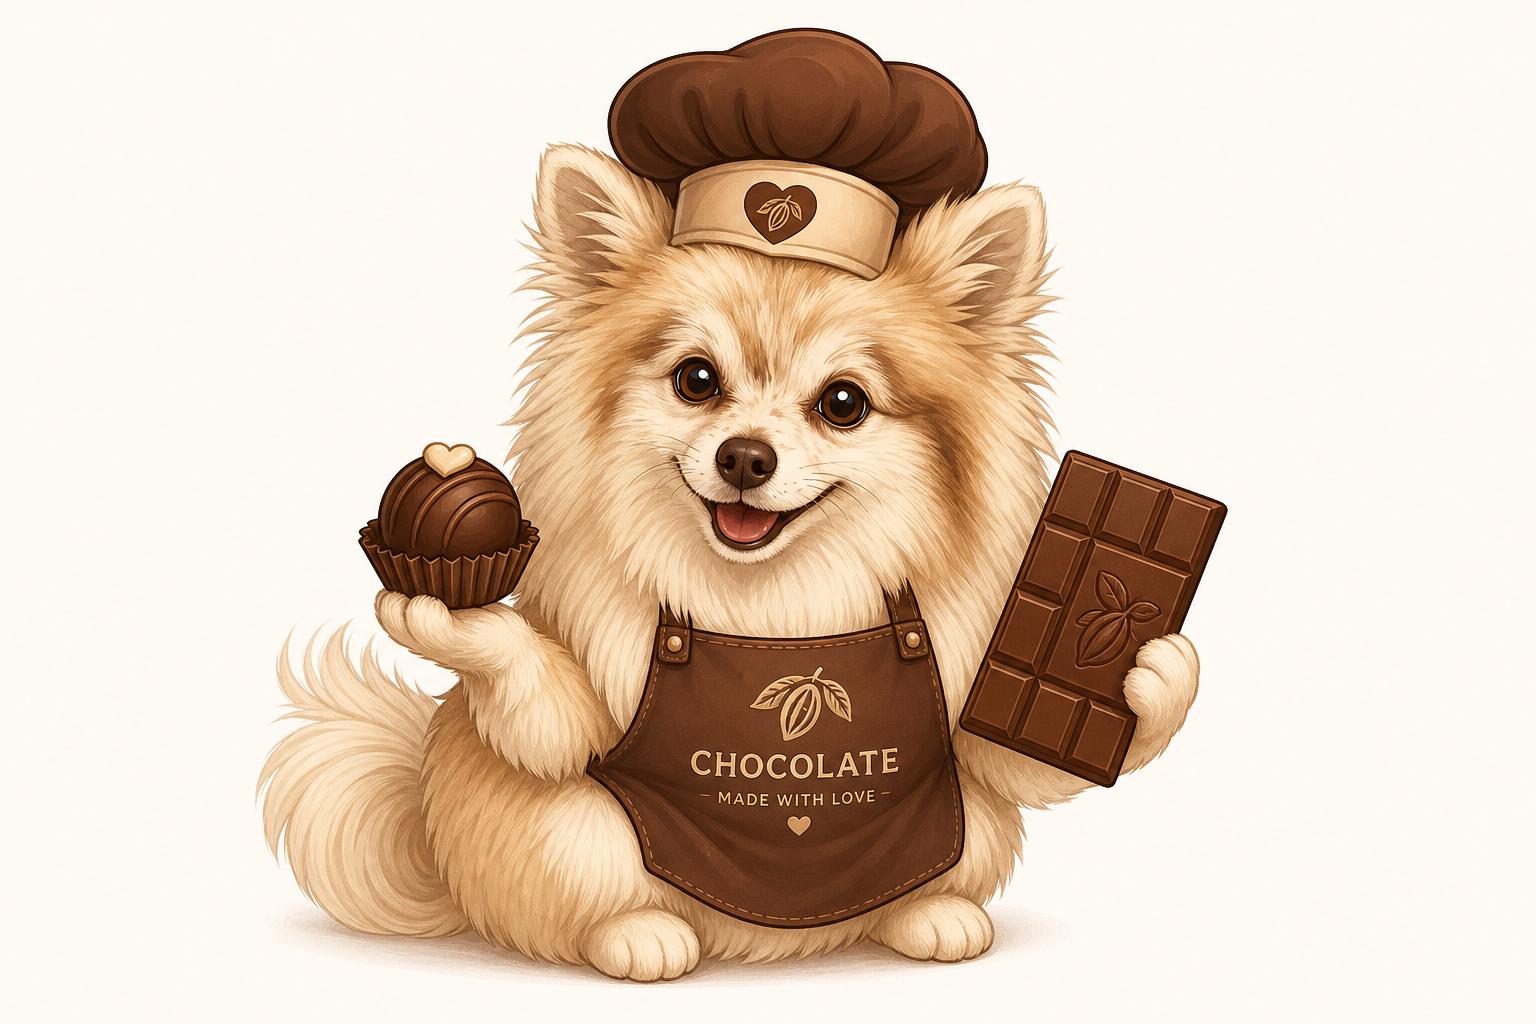
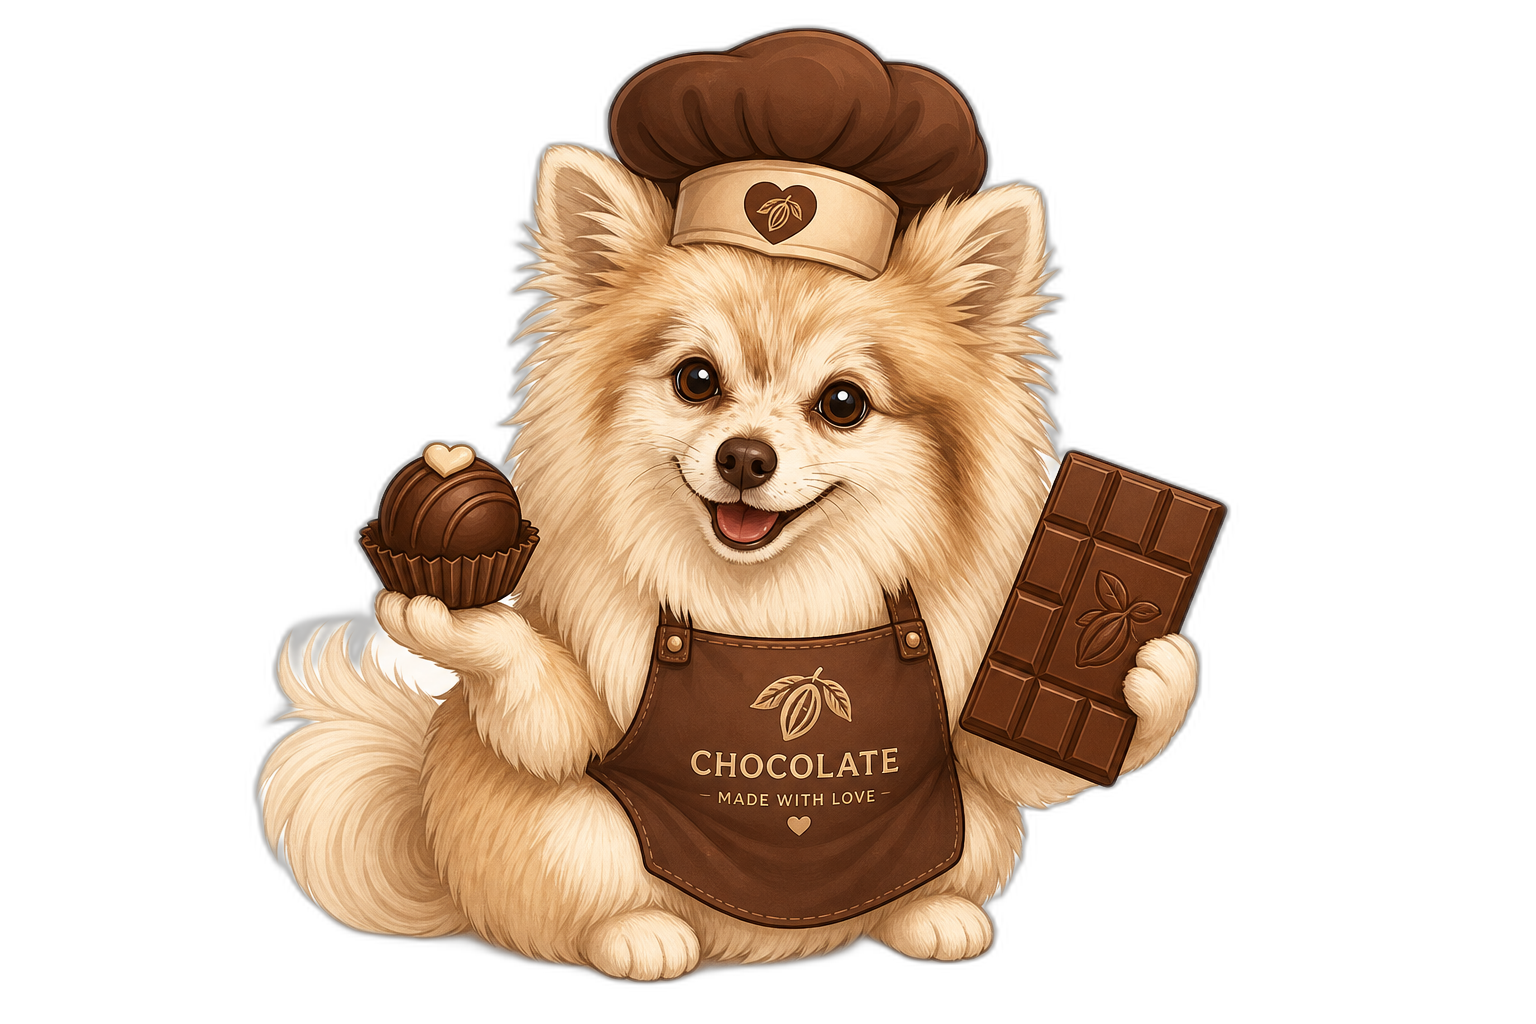
updates

diff --git a/frontend/src/components/Header.tsx b/frontend/src/components/Header.tsx
@@ -35,7 +35,7 @@ export function Header() {
             width={40}
             height={40}
             priority
-            className="size-10 shrink-0 rounded-full ring-1 ring-border/60 dark:ring-border"
+            className="size-10 shrink-0 rounded-full object-cover ring-1 ring-border/60 dark:ring-border"
           />
           <span className="text-lg font-semibold tracking-tight">Churrito&apos;s Chocolates</span>
         </Link>
@@ -107,7 +107,7 @@ export function HomeFooter() {
             alt="Churrito's Chocolates mascot"
             width={36}
             height={36}
-            className="size-9 shrink-0 rounded-full shadow-sm ring-1 ring-border/60 dark:ring-border"
+            className="size-9 shrink-0 rounded-full object-cover shadow-sm ring-1 ring-border/60 dark:ring-border"
           />
           <span className="max-w-md leading-relaxed">
             Free shipping on orders over $50 · Ships within 2 business days